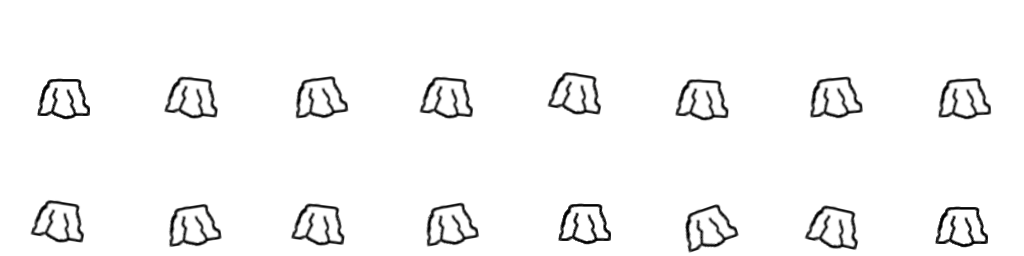
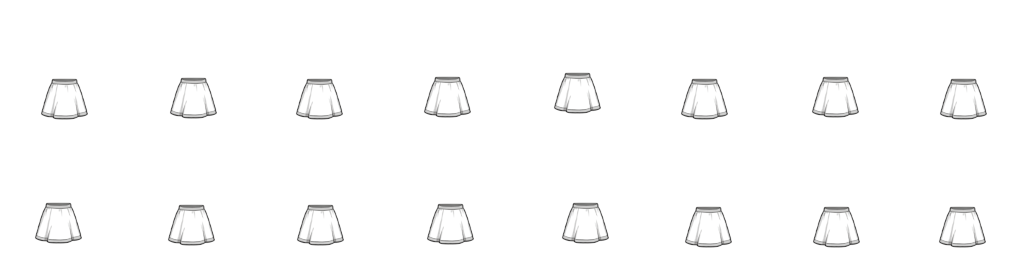
better skirt image

diff --git a/Game/Source/browser_compat.js b/Game/Source/browser_compat.js
@@ -24,8 +24,8 @@
   // --- Settings (browser defaults) ---
   window.getPersistMap       = function() { return true;  };
   window.getPersistPenStates = function() { return true;  };
-  window.getPersistPurchases = function() { return false; };
-  window.getCafeMathMode     = function() { return false; };
+  window.getPersistPurchases = function() { return true;  };
+  window.getCafeMathMode     = function() { return true; };
 
   // --- Save / Load (synchronous — data pre-fetched by browserInit) ---
   window.hasZooSave = function() { return _hasMapSave; };
